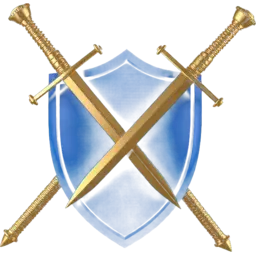
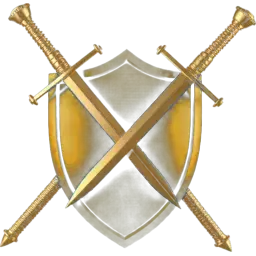
Social : icônes bouclier (Défi), Actus et Mon ID passées du bleu à l'or (#610)
Claude-Session: https://claude.ai/code/session_01WCUtdWARkyETTthfhDNrqD

Changed region(s): [[0.1875, 0.2812, 0.8125, 0.9688], [0.3125, 0.1875, 0.7188, 0.5]]

diff --git a/js/live-ui.js b/js/live-ui.js
@@ -218,7 +218,7 @@
   // v3401 (propriétaire) — vrais logos 3D réalistes (fal.ai) pour le menu Social, au lieu des dessins SVG.
   var SOC_IMG = { duel: 1, news: 1, friends: 1, groups: 1, chat: 1, myid: 1, levels: 1, missions: 1, quiz: 1, record: 1, stats: 1, badges: 1, learn: 1, gifts: 1, wheel: 1, target: 1, bonus: 1, bonus2: 1, jauge: 1, invite: 1 };
   D6.LiveIcon = function (k, cls) {
-    if (SOC_IMG[k]) return '<img class="li-ico li-img' + (cls ? ' ' + cls : '') + '" src="img/social/' + k + '.webp?v=3411" alt="" loading="lazy" draggable="false">';
+    if (SOC_IMG[k]) return '<img class="li-ico li-img' + (cls ? ' ' + cls : '') + '" src="img/social/' + k + '.webp?v=3428" alt="" loading="lazy" draggable="false">';
     return k === 'send' ? sendLogo(cls) : icon(k, cls);
   };
   D6.LiveColor = color;

diff --git a/ar/index.html b/ar/index.html
@@ -2435,7 +2435,7 @@ ld.querySelectorAll('.ol-bub.ol-ic, .ol-world .ow').forEach(function(el){var u=e
   <script src="/js/push.js?v=3130"></script>
   <script src="/js/app.js?v=3200"></script>
   <script src="/js/portal.js?v=3341"></script>
-  <script src="/js/live-ui.js?v=3411"></script>
+  <script src="/js/live-ui.js?v=3428"></script>
   <script src="/js/live.js?v=3427"></script>
   <script src="/js/live-quiz-data.js?v=2790"></script>
   <script src="/js/live-fun.js?v=3160"></script>

diff --git a/de/index.html b/de/index.html
@@ -2435,7 +2435,7 @@ ld.querySelectorAll('.ol-bub.ol-ic, .ol-world .ow').forEach(function(el){var u=e
   <script src="/js/push.js?v=3130"></script>
   <script src="/js/app.js?v=3200"></script>
   <script src="/js/portal.js?v=3341"></script>
-  <script src="/js/live-ui.js?v=3411"></script>
+  <script src="/js/live-ui.js?v=3428"></script>
   <script src="/js/live.js?v=3427"></script>
   <script src="/js/live-quiz-data.js?v=2790"></script>
   <script src="/js/live-fun.js?v=3160"></script>

diff --git a/en/index.html b/en/index.html
@@ -2435,7 +2435,7 @@ ld.querySelectorAll('.ol-bub.ol-ic, .ol-world .ow').forEach(function(el){var u=e
   <script src="/js/push.js?v=3130"></script>
   <script src="/js/app.js?v=3200"></script>
   <script src="/js/portal.js?v=3341"></script>
-  <script src="/js/live-ui.js?v=3411"></script>
+  <script src="/js/live-ui.js?v=3428"></script>
   <script src="/js/live.js?v=3427"></script>
   <script src="/js/live-quiz-data.js?v=2790"></script>
   <script src="/js/live-fun.js?v=3160"></script>

diff --git a/es/index.html b/es/index.html
@@ -2435,7 +2435,7 @@ ld.querySelectorAll('.ol-bub.ol-ic, .ol-world .ow').forEach(function(el){var u=e
   <script src="/js/push.js?v=3130"></script>
   <script src="/js/app.js?v=3200"></script>
   <script src="/js/portal.js?v=3341"></script>
-  <script src="/js/live-ui.js?v=3411"></script>
+  <script src="/js/live-ui.js?v=3428"></script>
   <script src="/js/live.js?v=3427"></script>
   <script src="/js/live-quiz-data.js?v=2790"></script>
   <script src="/js/live-fun.js?v=3160"></script>

diff --git a/hi/index.html b/hi/index.html
@@ -2435,7 +2435,7 @@ ld.querySelectorAll('.ol-bub.ol-ic, .ol-world .ow').forEach(function(el){var u=e
   <script src="/js/push.js?v=3130"></script>
   <script src="/js/app.js?v=3200"></script>
   <script src="/js/portal.js?v=3341"></script>
-  <script src="/js/live-ui.js?v=3411"></script>
+  <script src="/js/live-ui.js?v=3428"></script>
   <script src="/js/live.js?v=3427"></script>
   <script src="/js/live-quiz-data.js?v=2790"></script>
   <script src="/js/live-fun.js?v=3160"></script>

diff --git a/id/index.html b/id/index.html
@@ -2435,7 +2435,7 @@ ld.querySelectorAll('.ol-bub.ol-ic, .ol-world .ow').forEach(function(el){var u=e
   <script src="/js/push.js?v=3130"></script>
   <script src="/js/app.js?v=3200"></script>
   <script src="/js/portal.js?v=3341"></script>
-  <script src="/js/live-ui.js?v=3411"></script>
+  <script src="/js/live-ui.js?v=3428"></script>
   <script src="/js/live.js?v=3427"></script>
   <script src="/js/live-quiz-data.js?v=2790"></script>
   <script src="/js/live-fun.js?v=3160"></script>

diff --git a/pt/index.html b/pt/index.html
@@ -2435,7 +2435,7 @@ ld.querySelectorAll('.ol-bub.ol-ic, .ol-world .ow').forEach(function(el){var u=e
   <script src="/js/push.js?v=3130"></script>
   <script src="/js/app.js?v=3200"></script>
   <script src="/js/portal.js?v=3341"></script>
-  <script src="/js/live-ui.js?v=3411"></script>
+  <script src="/js/live-ui.js?v=3428"></script>
   <script src="/js/live.js?v=3427"></script>
   <script src="/js/live-quiz-data.js?v=2790"></script>
   <script src="/js/live-fun.js?v=3160"></script>

diff --git a/ru/index.html b/ru/index.html
@@ -2435,7 +2435,7 @@ ld.querySelectorAll('.ol-bub.ol-ic, .ol-world .ow').forEach(function(el){var u=e
   <script src="/js/push.js?v=3130"></script>
   <script src="/js/app.js?v=3200"></script>
   <script src="/js/portal.js?v=3341"></script>
-  <script src="/js/live-ui.js?v=3411"></script>
+  <script src="/js/live-ui.js?v=3428"></script>
   <script src="/js/live.js?v=3427"></script>
   <script src="/js/live-quiz-data.js?v=2790"></script>
   <script src="/js/live-fun.js?v=3160"></script>

diff --git a/tr/index.html b/tr/index.html
@@ -2435,7 +2435,7 @@ ld.querySelectorAll('.ol-bub.ol-ic, .ol-world .ow').forEach(function(el){var u=e
   <script src="/js/push.js?v=3130"></script>
   <script src="/js/app.js?v=3200"></script>
   <script src="/js/portal.js?v=3341"></script>
-  <script src="/js/live-ui.js?v=3411"></script>
+  <script src="/js/live-ui.js?v=3428"></script>
   <script src="/js/live.js?v=3427"></script>
   <script src="/js/live-quiz-data.js?v=2790"></script>
   <script src="/js/live-fun.js?v=3160"></script>

diff --git a/vi/index.html b/vi/index.html
@@ -2435,7 +2435,7 @@ ld.querySelectorAll('.ol-bub.ol-ic, .ol-world .ow').forEach(function(el){var u=e
   <script src="/js/push.js?v=3130"></script>
   <script src="/js/app.js?v=3200"></script>
   <script src="/js/portal.js?v=3341"></script>
-  <script src="/js/live-ui.js?v=3411"></script>
+  <script src="/js/live-ui.js?v=3428"></script>
   <script src="/js/live.js?v=3427"></script>
   <script src="/js/live-quiz-data.js?v=2790"></script>
   <script src="/js/live-fun.js?v=3160"></script>

diff --git a/zh/index.html b/zh/index.html
@@ -2435,7 +2435,7 @@ ld.querySelectorAll('.ol-bub.ol-ic, .ol-world .ow').forEach(function(el){var u=e
   <script src="/js/push.js?v=3130"></script>
   <script src="/js/app.js?v=3200"></script>
   <script src="/js/portal.js?v=3341"></script>
-  <script src="/js/live-ui.js?v=3411"></script>
+  <script src="/js/live-ui.js?v=3428"></script>
   <script src="/js/live.js?v=3427"></script>
   <script src="/js/live-quiz-data.js?v=2790"></script>
   <script src="/js/live-fun.js?v=3160"></script>
